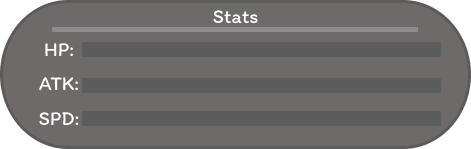
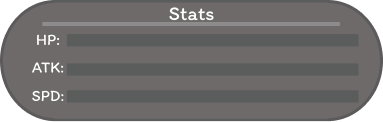
- Added a new BuffBar to show the active buffs as well as key - Resized some previous gui and made them smaller

diff --git a/src/main/java/main/GamePanel.java b/src/main/java/main/GamePanel.java
@@ -44,6 +44,7 @@ public class GamePanel extends JPanel{
     private BufferedImage statsBar;
     private BufferedImage healthBar;
     private BufferedImage timerPill;
+    private BufferedImage buffbar;
 
     public MeleeEnemy enemyOne;
     // Has access to keyboard and mouse inputsd
@@ -95,6 +96,7 @@ public class GamePanel extends JPanel{
         InputStream sb = getClass().getResourceAsStream("/StatsBar.png");
         InputStream hb = getClass().getResourceAsStream("/HealthBar.png");
         InputStream tp = getClass().getResourceAsStream("/TimerPill.png");
+        InputStream bb = getClass().getResourceAsStream("/Buffbar.png");
 
         try {
             assert is != null;
@@ -109,6 +111,7 @@ public class GamePanel extends JPanel{
             statsBar = ImageIO.read(sb);
             healthBar = ImageIO.read(hb);
             timerPill = ImageIO.read(tp);
+            buffbar = ImageIO.read(bb);
 
 
         } catch (IOException e) {
@@ -126,6 +129,7 @@ public class GamePanel extends JPanel{
                 sb.close();
                 hb.close();
                 tp.close();
+                bb.close();
             } catch (IOException e) {
                 e.printStackTrace();
             }
@@ -196,9 +200,10 @@ public class GamePanel extends JPanel{
 
         //HealthBar and Stats stuff go here
         if (!showMinimap && !isPaused){
-            g.drawImage(healthBar, 17, 27, null);
+            g.drawImage(healthBar, 17, 14, null);
+            g.drawImage(buffbar, 495, 619, null);
             if (showStatBar){
-                g.drawImage(statsBar, 13, 190, null);
+                g.drawImage(statsBar, 9, 109, null);
             }
         }
 
